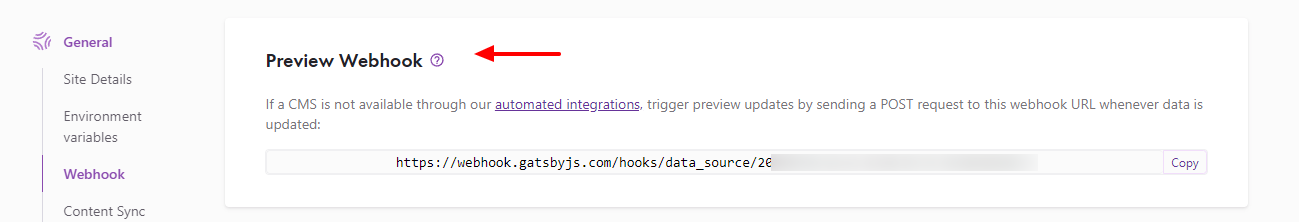
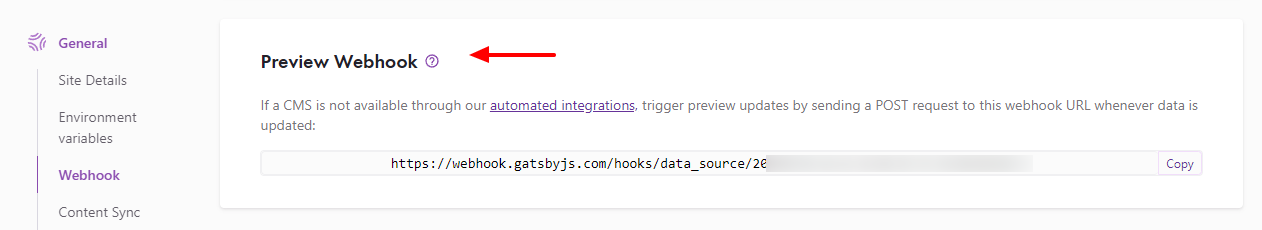
Cleanup webhook examples page

diff --git a/docs/css/flotiq.css b/docs/css/flotiq.css
@@ -84,6 +84,10 @@ header.md-header {
   margin-right: 20px;
 }
 
+.mt5 {
+  margin-top: 5px;
+}
+
 .button-center-vertical {
   vertical-align: middle;
 }

diff --git a/docs/panel/webhooks/examples.md b/docs/panel/webhooks/examples.md
@@ -3,8 +3,8 @@ description: How to use webhooks in Flotiq - examples
 
 # Webhook examples
 
-As we said, the webhooks can help with many scenarios.
-Check out our examples and use them in your projects or treat them as a signposts for your work:
+As we said, webhooks can help with many scenarios.
+Check out our examples and use them in your projects or treat them as a signpost for your work:
 
 1. [Trigger a Gatsby preview when site content was changed](#1-trigger-a-gatsby-preview-when-site-content-was-changed).
 2. [Trigger a Gatsby production build when a `Build production` button was clicked](#2-trigger-a-gatsby-production-build-when-a-build-production-button-was-clicked).
@@ -15,23 +15,23 @@ Check out our examples and use them in your projects or treat them as a signpost
 !!! Note
     If you are new in webhooks, read the [Flotiq Webhooks introduction](/docs/panel/webhooks/) first.
 
-## 1. Trigger a Gatsby preview when site content was changed.
+## 1. Trigger a Gatsby preview when site content was changed
 
 Prerequisites:
 We assume, that you have `Product` Content Type Definition in Flotiq.
 
-In the [Gatsby Cloud](https://www.gatsbyjs.com/dashboard) dashboard
+In the [Gatsby Cloud](https://www.gatsbyjs.com/dashboard) dashboard:
 
-1. Go to your site settings
-2. In the `General` -> `Webhook` menu find a `Preview` webhook url
-   ![](../images/webhooks/examples/gatsby/gatsby-cloud-a.png){: .border}
+1. Go to your site settings.
+2. In the `General` -> `Webhook` menu find a `Preview` webhook URL:
+   ![](../images/webhooks/examples/gatsby/gatsby-cloud-a.png){: .border .mt5}
 
 In the [Flotiq](https://editor.flotiq.com) dashboard:
 
-1. Go to the `Webhooks` page and click `Add Webhook`
+1. Go to the `Webhooks` page and click `Add new webhook`.
 2. Name the webhook (e.g. `Gatsby Preview`) and paste obtained `Preview` URL as a webhook `URL`.
-3. As a trigger, choose `Create`, `Update` and `Delete` actions on the `Product` and save the webhook.
-   ![](../images/webhooks/examples/gatsby/gatsby-cloud-2.png){: .border}
+3. As a trigger, choose `Create`, `Update` and `Delete` actions on the `Product` and save the webhook:
+   ![](../images/webhooks/examples/gatsby/gatsby-cloud-2.png){: .border .mt5}
 
 ### Check the result
 
@@ -39,27 +39,27 @@ After the `Create`, `Update`, `Delete` action on the `Product`, Gatsby Cloud Pre
 
 ![](../images/webhooks/examples/gatsby/gatsby-cloud-5b.png){: .border}
 
-## 2. Trigger a Gatsby production build when a `Build production` button was clicked.
+## 2. Trigger a Gatsby production build when a Build production button was clicked
 
 Prerequisites:
 We assume, that you have `Product` Content Type Definition in Flotiq.
 
-In the [Gatsby Cloud](https://www.gatsbyjs.com/dashboard) dashboard
+In the [Gatsby Cloud](https://www.gatsbyjs.com/dashboard) dashboard:
 
-1. Go to your site settings
-2. In the `General` -> `Webhook` menu find a `Builds` webhook url
-   ![](../images/webhooks/examples/gatsby/gatsby-cloud-b.png){: .border}
+1. Go to your site settings.
+2. In the `General` -> `Webhook` menu find a `Builds` webhook URL:
+   ![](../images/webhooks/examples/gatsby/gatsby-cloud-b.png){: .border .mt5}
 
 In the [Flotiq](https://editor.flotiq.com) dashboard:
 
-1. Go to the `Webhooks` page and click `Add Webhook`
+1. Go to the `Webhooks` page and click `Add new webhook`.
 2. Name the webhook (e.g. `Gatsby Build Production`) and paste obtained `Builds` URL as a webhook `URL`.
-3. As a trigger, choose `Custom` action on the `Product` and save the webhook.
-   ![](../images/webhooks/examples/gatsby/gatsby-cloud-3.png){: .border}
+3. As a trigger, choose `Custom` action on the `Product` and save the webhook:
+   ![](../images/webhooks/examples/gatsby/gatsby-cloud-3.png){: .border .mt5}
 
 ### Check the result
 
-Now, the `Gatsby Build Production` webhook button will be available in the edit `Product` form.
+Now, the `Gatsby Build Production` webhook button will be available in the Edit `Product` form.
 
 ![](../images/webhooks/examples/gatsby/gatsby-cloud-4.png){: .border}
 
@@ -67,31 +67,31 @@ After clicking the `Gatsby Build Production` button in Flotiq, the Gatsby Produc
 
 ![](../images/webhooks/examples/gatsby/gatsby-cloud-5.png){: .border}
 
-## 3. Trigger a Netlify build when a `Build site` button was clicked.
+## 3. Trigger a Netlify build when a Build site button was clicked
 
 Prerequisites:
 We assume, that you have `Product` Content Type Definition in Flotiq.
 
 In the [Netlify](https://app.netlify.com/) dashboard:
 
-1. Go to your site settings
-2. In the menu `Build & Deploy` -> `Continuous Deployment` find section `Build hooks`
-3. Add a new build hook (the name is up to you)
-4. Click `Save`, and copy your custom hook URL (like `https://api.netlify.com/build_hooks/xxxxxx`)
+1. Go to your site settings.
+2. In the menu `Build & Deploy` -> `Continuous Deployment` find section `Build hooks`.
+3. Add a new build hook (the name is up to you).
+4. Click `Save`, and copy your custom hook URL (like `https://api.netlify.com/build_hooks/xxxxxx`):
 
    ![](../images/webhooks/examples/netlify/netlify-hook-2.png){: .border}
 
 In the [Flotiq](https://editor.flotiq.com) dashboard:
 
-1. Go to the `Webhooks` page and click `Add Webhook`.
+1. Go to the `Webhooks` page and click `Add new webhook`.
 2. Name the webhook (e.g. `Build Site`) and paste obtained URL as a webhook `URL`.
-3. As a trigger, choose `Custom` action on the `Product` and save the webhook.
+3. As a trigger, choose `Custom` action on the `Product` and save the webhook:
 
    ![](../images/webhooks/examples/netlify/netlify-hook-3.png){: .border}
 
 ### Check the result
 
-Now, the `Build Site` webhook button will be available in the edit `Product` form:
+Now, the `Build Site` webhook button will be available in the Edit `Product` form:
 
 ![](../images/webhooks/examples/netlify/netlify-hook-4.png){: .border}
 
@@ -100,7 +100,7 @@ After clicking the `Build Site` button in Flotiq, the Netlify build will be trig
 ![](../images/webhooks/examples/netlify/netlify-hook-5.png){: .border}
 
 !!! Note
-    Choosing actions `Create`, `Update`, `Delete`, the build will be triggered automatically. The button `Build Site` is visible only when you choose `Custom` trigger.
+    Choosing actions `Create`, `Update`, `Delete`, the build will be triggered automatically. The button `Build Site` is visible only when you choose a `Custom` trigger.
 
 ## 4. Send a RocketChat notification when the contact form was submitted.
 
@@ -109,10 +109,10 @@ We assume, that you have `Contact Form` Content Type Definition in Flotiq with t
 
 In the RocketChat dashboard:
 
-1. Go to the `Administration` -> `Integrations`
-2. Click `Add new` integration
-3. Fill the form with following values:
-   ![](../images/webhooks/examples/rocket/rocket-1.png){: .border}
+1. Go to the `Administration` -> `Integrations`.
+2. Click `Add new` integration.
+3. Fill the form with the following values:
+   ![](../images/webhooks/examples/rocket/rocket-1.png){: .border .mt5}
 4. Make sure to check `Script enabled` and paste the code that transforms Flotiq Payload to required by RocketChat form (more in the [RocketChat docs](https://docs.rocket.chat/guides/administration/admin-panel/integrations#script-details)):
 
     ```
@@ -131,43 +131,44 @@ In the RocketChat dashboard:
 
 In the [Flotiq](https://editor.flotiq.com) dashboard:
 
-1. Go to the `Webhooks` page and click `Add Webhook`
+1. Go to the `Webhooks` page and click `Add new webhook`.
 2. Name the webhook (e.g. `Chat Notification`) and paste obtained `Webhook URL` as a webhook `URL`.
-3. As a trigger, choose `Create` action on the `Contact form` and save the webhook.
-   ![](../images/webhooks/examples/rocket/rocket-2.png){: .border}
+3. As a trigger, choose `Create` action on the `Contact form` and save the webhook:
+   ![](../images/webhooks/examples/rocket/rocket-2.png){: .border .mt5}
 
 !!! Note
-    As next step we recommend to create the Contact Form with [Flotiq Forms](https://flotiq.com/docs/panel/flotiq-forms-add-forms-to-websites/). It is easy-to-use form generator, that adds customer input direclty to your Content Objects.
+    As the next step, we recommend creating the Contact Form with [Flotiq Forms](https://flotiq.com/docs/panel/flotiq-forms-add-forms-to-websites/). It is an easy-to-use form generator, that adds customer input directly to your Content Objects.
 
 ### Check the result
 
-After the `Create` action on the `Contact` (or submitting Contact Form based on [Flotiq Forms](https://flotiq.com/docs/panel/flotiq-forms-add-forms-to-websites/)) the RocketChat notification will be triggered:
+After the `Create` action on the `Contact form` (or submitting Contact Form based on [Flotiq Forms](https://flotiq.com/docs/panel/flotiq-forms-add-forms-to-websites/)) the RocketChat notification will be triggered:
 
 ![](../images/webhooks/examples/rocket/rocket-3.png){: .border}
 
 
-## 5. Trigger AWS Lambda serverless function when entry is changed.
+## 5. Trigger AWS Lambda serverless function when entry is changed
 
 To integrate Flotiq Webhooks and AWS Lambda follow the steps below:
 
 1. Set up AWS Lambda to receive HTTP requests. We prepared a simple [AWS Lambda webhook example](https://github.com/flotiq/aws-lambda-webhook-example) code for you.
 2. Copy the `endpoint` URL that represents your service, returned by `serverless deploy` command:
-   ![](../images/webhooks/examples/aws-lambda/webhook-aws.png){: .border}
-3. In the [Flotiq](https://editor.flotiq.com) dashboard go to the `Webhooks` page and click `Add Webhook`
+   ![](../images/webhooks/examples/aws-lambda/webhook-aws.png){: .border .mt5}
+3. In the [Flotiq](https://editor.flotiq.com) dashboard go to the `Webhooks` page and click `Add new webhook`
 4. Name the webhook (e.g. `Notify AWS Lambda`) and paste obtained `endpoint` URL as a webhook `URL`. 
-5. As a trigger, choose `Create`, `Update` and `Delete` action on the multiple Content Types
-   ![](../images/webhooks/examples/aws-lambda/webhook-aws-2.png){: .border}
+5. As a trigger, choose `Create`, `Update` and `Delete` action on the multiple Content Types:
+   ![](../images/webhooks/examples/aws-lambda/webhook-aws-2.png){: .border .mt5}
 
 ### Check the result
 
 After any action on the Content Objects, you will be able to see logs in the AWS Lambda CloudWatch.
+Now you can use the received payload to implement your own business logic.
 
 ![](../images/webhooks/examples/aws-lambda/webhook-aws-3.png){: .border}
 
 !!! Notes
     This is a simple example without authentication.
     You can add it by yourself or [set up API keys using AWS](https://docs.aws.amazon.com/apigateway/latest/developerguide/api-gateway-setup-api-key-with-console.html).
-    that allows you to track the API Keys usage, throttle the requests or use a quotas for your applications.
+    that allows you to track the API Keys usage, throttle the requests or use a quota for your applications.
 
 
 [Register to create your first webhook](https://editor.flotiq.com/register.html){: .flotiq-button}
